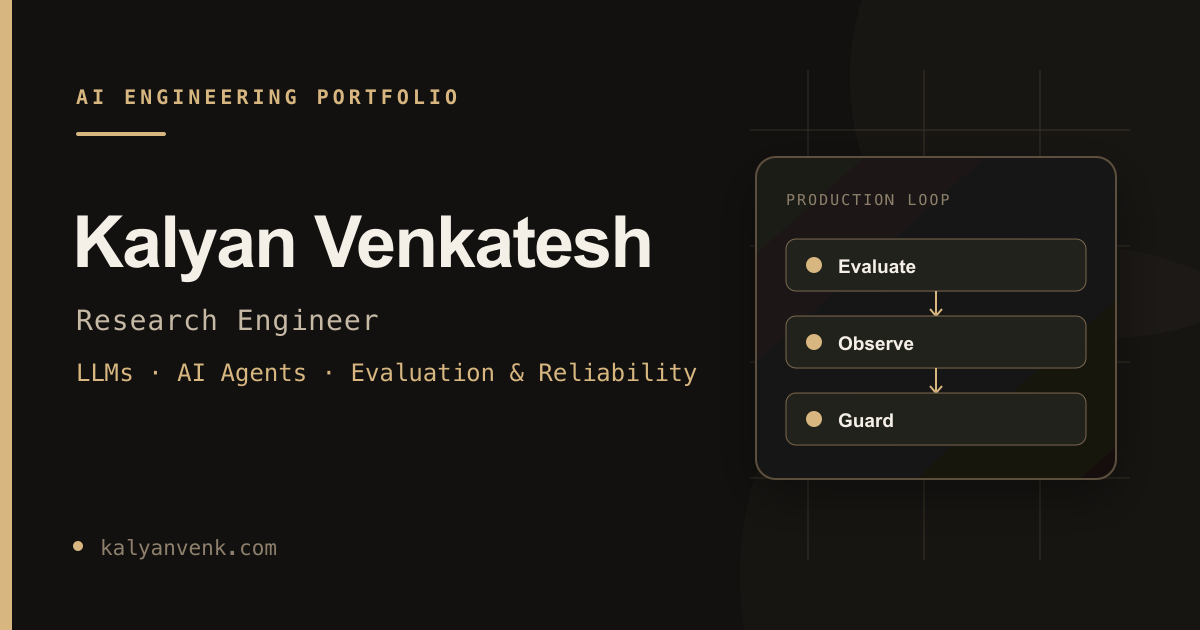
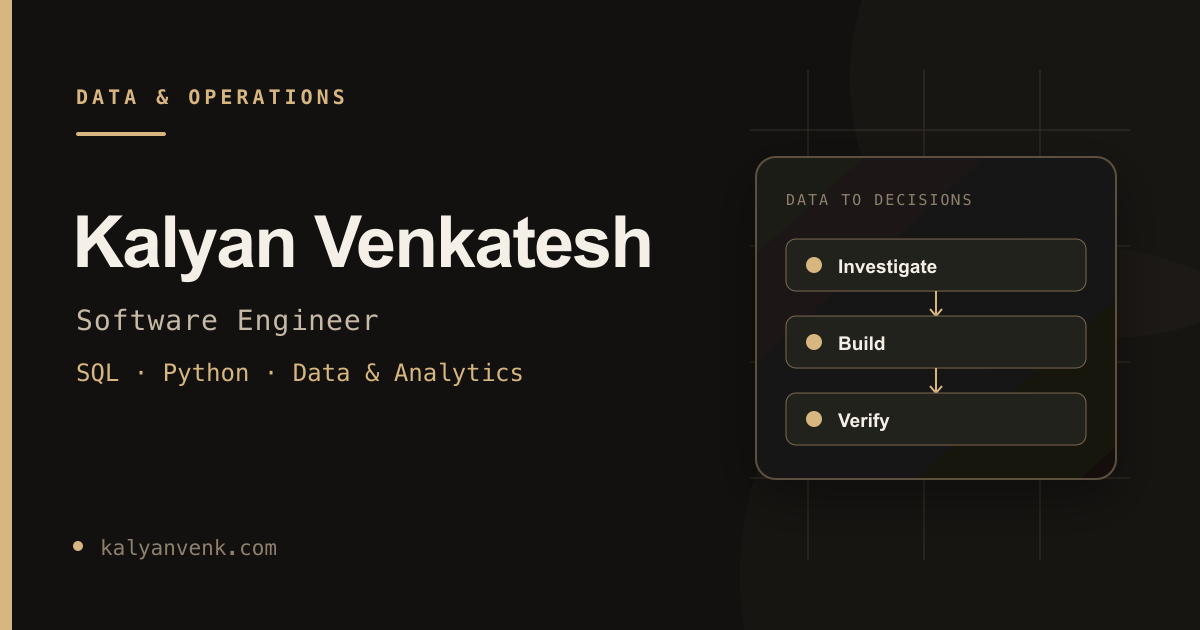
Refocus portfolio on data and analytical operations

diff --git a/index.html b/index.html
@@ -6,25 +6,25 @@
 <meta name="viewport" content="width=device-width, initial-scale=1.0">
 <title>Kalyan Venkatesh</title>
 <link rel="icon" type="image/svg+xml" href="/assets/favicon.svg?v=1">
-<meta name="description" content="AI Engineer focused on evaluation, LLM agents and reliable production systems.">
-<meta property="og:title" content="Kalyan Venkatesh | Research Engineer">
-<meta property="og:description" content="AI Engineer focused on evaluation, LLM agents and reliable production systems.">
+<meta name="description" content="Software Engineer working with SQL, Python, data pipelines, analytics and customer-focused operations.">
+<meta property="og:title" content="Kalyan Venkatesh | Software Engineer">
+<meta property="og:description" content="Software Engineer working with SQL, Python, data pipelines, analytics and customer-focused operations.">
 <meta property="og:type" content="website">
 <meta property="og:url" content="https://kalyanvenk.com/">
 <meta property="og:site_name" content="Kalyan Venkatesh">
-<meta property="og:image" content="https://kalyanvenk.com/assets/og-portfolio.png">
+<meta property="og:image" content="https://kalyanvenk.com/assets/og-portfolio.png?v=20261114">
 <meta property="og:image:width" content="1200">
 <meta property="og:image:height" content="630">
-<meta property="og:image:alt" content="Kalyan Venkatesh AI Engineering Portfolio">
+<meta property="og:image:alt" content="Kalyan Venkatesh | Data and Operations">
 <meta name="twitter:card" content="summary_large_image">
-<meta name="twitter:title" content="Kalyan Venkatesh | Research Engineer">
-<meta name="twitter:description" content="AI Engineer focused on evaluation, LLM agents and reliable production systems.">
-<meta name="twitter:image" content="https://kalyanvenk.com/assets/og-portfolio.png">
-<meta name="twitter:image:alt" content="Kalyan Venkatesh AI Engineering Portfolio">
+<meta name="twitter:title" content="Kalyan Venkatesh | Software Engineer">
+<meta name="twitter:description" content="Software Engineer working with SQL, Python, data pipelines, analytics and customer-focused operations.">
+<meta name="twitter:image" content="https://kalyanvenk.com/assets/og-portfolio.png?v=20261114">
+<meta name="twitter:image:alt" content="Kalyan Venkatesh | Data and Operations">
 <link rel="preconnect" href="https://fonts.googleapis.com">
 <link rel="preconnect" href="https://fonts.gstatic.com" crossorigin>
 <link href="https://fonts.googleapis.com/css2?family=Inter:wght@400;500;600;700;800&family=JetBrains+Mono:wght@400;500;600&display=swap" rel="stylesheet">
-<link rel="stylesheet" href="assets/home.css?v=12">
+<link rel="stylesheet" href="assets/home.css?v=13">
 <link rel="stylesheet" href="/assets/theme.css?v=2">
 </head>
 <body>
@@ -33,11 +33,12 @@
   <header class="rail">
     <div>
       <h1><a href="/">Kalyan Venkatesh</a></h1>
-      <h2><span>Software Engineer</span><span>LLMs &middot; Agents &middot; Evaluation &middot; Observability</span></h2>
+      <h2><span>Software Engineer</span><span>SQL &amp; Python &middot; Data &amp; Operations</span></h2>
       <nav class="nav">
         <a href="#about" data-sec="about"><span class="ind"></span>About</a>
         <a href="#experience" data-sec="experience"><span class="ind"></span>Experience</a>
         <a href="#projects" data-sec="projects"><span class="ind"></span>Projects</a>
+        <a href="#skills" data-sec="skills"><span class="ind"></span>Skills</a>
       </nav>
     </div>
     <div class="rail-foot">
@@ -54,10 +55,9 @@
     <section class="sec" id="about">
       <h2 class="sec-h">About</h2>
       <div class="prose">
-        <p class="reveal">Hey! I'm a Software Engineer with 2 years of work experience. I specialize in making AI systems reliable in production.</p>
-        <p class="reveal">At sensen.ai I worked as a Software Engineer and served as the company's sole Data Scientist. I built a production model-evaluation framework across 26 parking deployments and worked with on-site teams and clients across 4 countries to turn operational failures into measurable engineering problems.</p>
-        <p class="reveal">My Master's Research carried the same question into LLM systems. I built a multi-agent Planner-Critic-Fixer pipeline to detect and repair generated-code errors at inference time. My research paper is under conference review.</p>
-        <p class="reveal">Lately I'm building an end-to-end system with AI agents for credit card fraud disputes, focusing on LLM evaluation, observability &amp; guardrails.</p>
+        <p class="reveal">Hey! I'm Kalyan, a Software Engineer with 2 years at sensen.ai, where I worked as the company's sole Data Scientist. Most of my work involved SQL, production data and problems reported by on-site stakeholders.</p>
+        <p class="reveal">I enjoy understanding what is going wrong, investigating the data and building a solution that makes someone's work easier. At sensen.ai, that meant shared SQL across 80+ client deployments, automated reporting and an evaluation framework adopted across 26 parking deployments.</p>
+        <p class="reveal">I'm now building <a href="/product-compass/">Product Compass</a>, a data pipeline and analytics project for investigating reported problems in AI developer tools. I'm interested in data engineering, analytics and analytical operations roles, with a strong preference for the New York City and San Francisco Bay areas.</p>
       </div>
     </section>
 
@@ -78,8 +78,14 @@
             <h4>Software Engineer</h4>
             <p>Jan 2023 to Aug 2024</p>
           </div>
-          <p>Sole Data Scientist and forward-deployed technical contact across sensen's client base. Built an ANPR vehicle-direction classifier, a production model-evaluation framework and analytical SQL serving 80 client deployments. Gathered requirements, scoped feasibility and self-deployed 300+ data products on AWS, Azure and GCP servers.</p>
-          <ul class="tags"><li>Python</li><li>Computer Vision</li><li>ETL</li><li>AWS</li></ul>
+          <p>Worked with on-site stakeholders across 4 countries to investigate customer problems and deliver production data solutions.</p>
+          <ul class="experience-points">
+            <li>Maintained shared SQL logic across 80+ client deployments, using approximately 25 reusable materialized views and PostgreSQL functions to turn about 30,000 weekly vehicle observations into reporting datasets.</li>
+            <li>Built and deployed 300+ automated reporting pipelines with client-specific filters and PDF, HTML, Excel and CSV outputs. Owned requirements, testing, deployment and verification on client servers.</li>
+            <li>Developed a model evaluation framework adopted across 26 parking deployments. Connected missing entry or exit records to unbillable sessions, helping reduce unbillable events by approximately 5% and protect about $6,000 monthly per site.</li>
+            <li>Deployed solutions on AWS, Azure and GCP servers and mentored 2 data-science interns delivering SQL-based work.</li>
+          </ul>
+          <ul class="tags"><li>SQL</li><li>Python</li><li>PostgreSQL</li><li>ETL</li><li>Data Quality</li><li>Client Delivery</li></ul>
         </article>
 
         <article class="home-role">
@@ -87,7 +93,7 @@
             <h4>Software Engineer Intern</h4>
             <p>Aug 2022 to Jan 2023</p>
           </div>
-          <p>Built 8 ticket-generation APIs on PL/pgSQL functions behind Spring Boot and designed an image-retention policy in Python that reclaimed 400+ GB and deferred server upgrades 4 to 5 months.</p>
+          <p>Built 8 ticket-generation APIs backed by PostgreSQL functions. Automated an image-retention workflow in Python that preserved readable evidence images, reclaimed 400+ GB in its initial cleanup and deferred server upgrades by 4 to 5 months.</p>
           <ul class="tags"><li>Python</li><li>SQL</li><li>Linux</li></ul>
         </article>
       </div>
@@ -96,23 +102,44 @@
     <section class="sec" id="projects">
       <h2 class="sec-h">Projects</h2>
 
-      <a class="home-project reveal" href="/chargeback/">
+      <a class="home-project reveal" href="/product-compass/">
         <div class="home-project-head">
-          <h3>ChargeBack <span aria-hidden="true">&#8599;</span></h3>
+          <h3>Product Compass <span aria-hidden="true">&#8599;</span></h3>
           <span>In progress</span>
         </div>
-        <p>AI agent for card-fraud disputes built around evaluation, observability and guardrails. The system connects streamed conversations to transaction lookup, fraud scoring and guarded dispute filing.</p>
-        <ul class="tags"><li>FastAPI</li><li>PostgreSQL</li><li>PyTorch</li><li>Evaluation</li></ul>
+        <p class="project-subtitle">Data Pipelines and Analytics for AI Developer Tools</p>
+        <p>Collects public issue reports, validates and loads them into PostgreSQL, then summarizes the evidence for operational investigation. The first dataset contains 1,159 unique Codex reports.</p>
+        <ul class="tags"><li>Python</li><li>SQL</li><li>PostgreSQL</li><li>Data Validation</li><li>Operational Analysis</li></ul>
       </a>
 
       <a class="home-project reveal" href="/inference-reliability">
         <div class="home-project-head">
-          <h3>Multi-Agent LLM Systems &amp; Reliability <span aria-hidden="true">&#8599;</span></h3>
+          <h3>Experimental Design &amp; LLM Evaluation <span aria-hidden="true">&#8599;</span></h3>
           <span>Under review</span>
         </div>
-        <p>Graduate research on whether a Planner-Critic-Fixer monitor improves generated-code correctness across local language models without retraining them.</p>
-        <ul class="tags"><li>LangGraph</li><li>LLM Evaluation</li><li>MLflow</li><li>AST Analysis</li></ul>
+        <p>Graduate research using 17,000 model-evaluation records across 10 experimental phases to measure when automated feedback improves or harms generated-code performance.</p>
+        <ul class="tags"><li>Python</li><li>Statistical Analysis</li><li>Experimental Design</li><li>MLflow</li></ul>
       </a>
+    </section>
+
+    <section class="sec" id="skills">
+      <h2 class="sec-h">Skills</h2>
+      <div class="skill-group reveal">
+        <h3>Languages &amp; Databases</h3>
+        <ul class="tags"><li>Python</li><li>SQL</li><li>PostgreSQL</li></ul>
+      </div>
+      <div class="skill-group reveal">
+        <h3>Data Engineering &amp; Analytics</h3>
+        <ul class="tags"><li>Data Modeling</li><li>ETL</li><li>Data Pipelines</li><li>dbt</li><li>Snowflake</li><li>Pandas</li><li>NumPy</li></ul>
+      </div>
+      <div class="skill-group reveal">
+        <h3>Quality &amp; Measurement</h3>
+        <ul class="tags"><li>Data Validation</li><li>Data Quality</li><li>Statistical Analysis</li><li>Experimental Design</li><li>Model Evaluation</li></ul>
+      </div>
+      <div class="skill-group reveal">
+        <h3>Operations &amp; Delivery</h3>
+        <ul class="tags"><li>Requirements Gathering</li><li>Report Automation</li><li>Workflow Automation</li><li>Stakeholder Collaboration</li><li>Git</li><li>AWS</li></ul>
+      </div>
     </section>
 
     <footer class="foot reveal">

diff --git a/inference-reliability.html b/inference-reliability.html
@@ -4,44 +4,34 @@
 <meta charset="UTF-8">
 <meta name="viewport" content="width=device-width, initial-scale=1.0">
 <link rel="canonical" href="https://kalyanvenk.com/inference-reliability">
-<meta name="description" content="Graduate research on inference-time monitoring and repair in multi-agent LLM systems using a Planner-Critic-Fixer reliability pipeline.">
+<meta name="description" content="Graduate research in experimental design, statistical analysis and evaluation of language-model code generation.">
 <title>Graduate Research · Kalyan Venkatesh</title>
-<meta property="og:title" content="Graduate Research: Multi-Agent LLM Systems &amp; Reliability">
-<meta property="og:description" content="Graduate research on inference-time monitoring and repair in multi-agent LLM systems using a Planner-Critic-Fixer reliability pipeline.">
+<meta property="og:title" content="Graduate Research: Experimental Design &amp; LLM Evaluation">
+<meta property="og:description" content="Graduate research in experimental design, statistical analysis and evaluation of language-model code generation.">
 <meta property="og:type" content="article">
 <meta property="og:url" content="https://kalyanvenk.com/inference-reliability">
 <meta property="og:site_name" content="Kalyan Venkatesh">
-<meta property="og:image" content="https://kalyanvenk.com/assets/og-research.png">
+<meta property="og:image" content="https://kalyanvenk.com/assets/og-research.png?v=20261114">
 <meta property="og:image:width" content="1200">
 <meta property="og:image:height" content="630">
-<meta property="og:image:alt" content="Multi-Agent LLM Systems and Reliability research pipeline">
+<meta property="og:image:alt" content="Experimental design and statistical evaluation of language models">
 <meta name="twitter:card" content="summary_large_image">
-<meta name="twitter:title" content="Graduate Research: Multi-Agent LLM Systems &amp; Reliability">
-<meta name="twitter:description" content="Graduate research on inference-time monitoring and repair in multi-agent LLM systems using a Planner-Critic-Fixer reliability pipeline.">
-<meta name="twitter:image" content="https://kalyanvenk.com/assets/og-research.png">
-<meta name="twitter:image:alt" content="Multi-Agent LLM Systems and Reliability research pipeline">
-<style>
-  :root { color-scheme: light dark; }
-  body { margin: 0; font-family: Inter, -apple-system, BlinkMacSystemFont, "Segoe UI", sans-serif; background: #10121a; color: #f4f5fb; }
-  main { box-sizing: border-box; max-width: 760px; min-height: 100vh; margin: 0 auto; padding: 10vh 28px; display: grid; align-content: center; gap: 22px; }
-  .eyebrow { margin: 0; color: #a5b4fc; font: 600 0.78rem/1.4 ui-monospace, SFMono-Regular, Menlo, monospace; letter-spacing: 0.12em; text-transform: uppercase; }
-  h1 { margin: 0; font-size: clamp(2rem, 6vw, 3.5rem); letter-spacing: -0.045em; line-height: 1.04; }
-  p { max-width: 62ch; margin: 0; color: #c4c8d8; font-size: 1.05rem; line-height: 1.7; }
-  .status { padding: 20px 22px; border: 1px solid #31364b; border-radius: 14px; background: #181b27; }
-  .findings { display: grid; gap: 14px; margin: 0; padding: 0; list-style: none; }
-  .findings li { padding-left: 18px; border-left: 2px solid #6676d9; color: #d8dbea; font-size: 1rem; line-height: 1.65; }
-  .status p + p { margin-top: 10px; }
-  a { color: #b9c3ff; font-weight: 600; text-underline-offset: 3px; }
-</style>
+<meta name="twitter:title" content="Graduate Research: Experimental Design &amp; LLM Evaluation">
+<meta name="twitter:description" content="Graduate research in experimental design, statistical analysis and evaluation of language-model code generation.">
+<meta name="twitter:image" content="https://kalyanvenk.com/assets/og-research.png?v=20261114">
+<meta name="twitter:image:alt" content="Experimental design and statistical evaluation of language models">
+<link rel="stylesheet" href="/assets/project-page.css?v=1">
 <link rel="stylesheet" href="/assets/theme.css?v=2">
 </head>
-<body class="research-page">
+<body class="project-page">
   <main>
     <p class="eyebrow">Graduate Research</p>
-    <h1>Multi-Agent LLM Systems &amp; Reliability</h1>
+    <h1>Experimental Design &amp; LLM Evaluation</h1>
+    <p>Studying when automated feedback improves generated code, when it makes results worse and how to tell the difference with reliable measurements.</p>
     <ul class="findings">
-      <li>Built and evaluated a LangGraph Planner-Critic-Fixer pipeline with AST checks, selective reversion and MLflow tracking across 5 local 3B to 8B model families, 10 experimental phases and 3 code benchmarks.</li>
-      <li>Measured a +1.37-point average pass@1 gain across 9 conditions on a 3B planner but found monitoring reduced Qwen2.5 Coder 7B from 90% to 86% pass@1, showing it can harm stronger models.</li>
+      <li>Designed 10 experimental phases to compare baseline and monitored model performance across model capabilities, settings and code benchmarks.</li>
+      <li>Analyzed 17,000 model-evaluation records using paired comparisons and 95% confidence intervals to quantify changes in generated-code performance.</li>
+      <li>Built a Python evaluation workflow with LangGraph and MLflow, combining code checks, experiment tracking and failure analysis. Tested 5 local model families across 3 code benchmarks.</li>
     </ul>
     <div class="status">
       <p>My first-author Master's research manuscript with 2 DePaul faculty co-authors is under conference review.</p>

diff --git a/product-compass/index.html b/product-compass/index.html
@@ -1,0 +1,76 @@
+<!DOCTYPE html>
+<html lang="en">
+<head>
+<meta charset="UTF-8">
+<meta name="viewport" content="width=device-width, initial-scale=1.0">
+<title>Product Compass · Kalyan Venkatesh</title>
+<link rel="canonical" href="https://kalyanvenk.com/product-compass/">
+<meta name="description" content="Data Pipelines and Analytics for AI Developer Tools. Python ingestion, PostgreSQL modeling and source-verified analysis of public product issues.">
+<meta property="og:title" content="Product Compass | Data Pipelines and Analytics for AI Developer Tools">
+<meta property="og:description" content="From public issue reports to reliable datasets and operational investigation. Built with Python, SQL and PostgreSQL.">
+<meta property="og:type" content="website">
+<meta property="og:url" content="https://kalyanvenk.com/product-compass/">
+<meta property="og:site_name" content="Kalyan Venkatesh">
+<meta property="og:image" content="https://kalyanvenk.com/assets/og-product-compass.png">
+<meta property="og:image:width" content="1200">
+<meta property="og:image:height" content="630">
+<meta property="og:image:alt" content="Product Compass: collect, validate and analyze public product issue data">
+<meta name="twitter:card" content="summary_large_image">
+<meta name="twitter:title" content="Product Compass | Data Pipelines and Analytics for AI Developer Tools">
+<meta name="twitter:description" content="Python ingestion, PostgreSQL modeling and source-verified analysis of public product issues.">
+<meta name="twitter:image" content="https://kalyanvenk.com/assets/og-product-compass.png">
+<link rel="icon" type="image/svg+xml" href="/assets/favicon.svg?v=1">
+<link rel="stylesheet" href="/assets/theme.css?v=2">
+<link rel="stylesheet" href="/assets/project-page.css?v=1">
+</head>
+<body class="project-page">
+<main>
+  <p><a href="/">&#8592; Kalyan Venkatesh</a></p>
+  <p class="eyebrow">Independent project · Python / SQL / PostgreSQL</p>
+  <h1>Product Compass</h1>
+  <p class="subtitle">Data Pipelines and Analytics for AI Developer Tools</p>
+  <p>Public issue reports contain useful clues about where a product gets in the way of its users. Product Compass turns those reports into a reliable dataset for investigating the problems behind them, starting with OpenAI Codex.</p>
+
+  <dl class="stats" aria-label="First verified dataset">
+    <div><dt>Unique issue reports</dt><dd>1,159</dd></div>
+    <div><dt>Days of reported issues</dt><dd>7</dd></div>
+    <div><dt>Fields checked per record</dt><dd>14</dd></div>
+  </dl>
+
+  <section aria-labelledby="implementation">
+    <h2 id="implementation">What the pipeline does</h2>
+    <ul class="findings">
+      <li>Collects GitHub issues through a Python workflow with date filters, pagination and request pacing. Saves the source records with collection metadata so the analysis can be traced back to its inputs.</li>
+      <li>Loads records into PostgreSQL and refreshes existing issue IDs without duplicates. Preserves source links, timestamps and labels, with all 14 mapped fields reconciled against the saved JSON.</li>
+      <li>Summarizes issues by creation date, state and label to support operational investigation. Keeps overlapping labels separate from counts of distinct reports or affected users.</li>
+    </ul>
+  </section>
+
+  <ol class="flow" aria-label="Pipeline stages">
+    <li>1. GitHub API</li><li>2. JSON snapshot</li><li>3. PostgreSQL</li><li>4. SQL analysis</li>
+  </ol>
+
+  <div class="perspectives">
+    <section>
+      <h2>The data question</h2>
+      <p>Did we collect the records we intended to collect, preserve their meaning and load them correctly? The pipeline checks completeness signals, keeps unique issue IDs and reconciles database values with the source snapshot.</p>
+    </section>
+    <section>
+      <h2>The operations question</h2>
+      <p>Which reported problem deserves investigation next? Report frequency is one signal alongside severity, ongoing exposure and available workarounds. The descriptions provide context that a label count alone cannot.</p>
+    </section>
+  </div>
+
+  <div class="status">
+    <h2>First verified snapshot</h2>
+    <p>Collected November 14, 2026 for issues created November 1–7 in UTC. The dataset contains 1,052 open and 107 closed issues, with no pull requests.</p>
+    <p>These are public reports, not the complete customer-support queue. Labels overlap and a closed issue does not necessarily mean a fixed problem. Upserts retain current values rather than a history of changes.</p>
+  </div>
+
+  <div class="actions">
+    <a class="primary-link" href="https://github.com/kalyan-venk/product-compass" target="_blank" rel="noopener">View source and setup instructions &#8599;</a>
+    <a href="/#projects">Back to projects</a>
+  </div>
+</main>
+</body>
+</html>

diff --git a/assets/project-page.css b/assets/project-page.css
@@ -1,0 +1,45 @@
+/* Shared presentation for project case studies. */
+* { box-sizing: border-box; }
+.project-page {
+  margin: 0;
+  background: var(--theme-bg, #edf7f3);
+  color: var(--theme-head, #142e25);
+  font-family: Inter, -apple-system, BlinkMacSystemFont, "Segoe UI", sans-serif;
+}
+.project-page main {
+  max-width: 860px;
+  min-height: 100vh;
+  margin: 0 auto;
+  padding: 64px 28px;
+  display: grid;
+  align-content: start;
+  gap: 24px;
+}
+.project-page .eyebrow { margin: 0; color: var(--theme-accent); font: 600 .76rem/1.5 ui-monospace, monospace; letter-spacing: .12em; text-transform: uppercase; }
+.project-page h1 { margin: 0; font-size: clamp(2.2rem, 6vw, 3.8rem); letter-spacing: -.045em; line-height: 1.08; }
+.project-page h2 { margin: 0 0 12px; font-size: 1.12rem; line-height: 1.45; }
+.project-page p { margin: 0; color: var(--theme-text); font-size: 1rem; line-height: 1.75; }
+.project-page a { color: var(--theme-accent); font-weight: 600; text-underline-offset: 4px; }
+.project-page .subtitle { font-size: 1.2rem; color: var(--theme-head); }
+.project-page .findings { display: grid; gap: 18px; margin: 0; padding: 0; list-style: none; }
+.project-page .findings li { padding-left: 18px; border-left: 2px solid var(--theme-accent); color: var(--theme-text); font-size: 1rem; line-height: 1.75; }
+.project-page .status { padding: 22px; border: 1px solid var(--theme-line); border-radius: 14px; background: var(--theme-panel); }
+.project-page .status p + p { margin-top: 12px; }
+.project-page .stats { display: grid; grid-template-columns: repeat(3, 1fr); gap: 12px; }
+.project-page .stats div { padding: 20px; border: 1px solid var(--theme-line); border-radius: 12px; }
+.project-page .stats dt { color: var(--theme-dim); font-size: .83rem; }
+.project-page .stats dd { margin: 8px 0 0; color: var(--theme-head); font-size: 2rem; font-weight: 700; }
+.project-page .flow { display: flex; flex-wrap: wrap; gap: 10px; margin: 0; padding: 0; list-style: none; }
+.project-page .flow li { padding: 10px 14px; background: var(--theme-panel); border: 1px solid var(--theme-line); border-radius: 8px; font: .84rem/1.5 ui-monospace, monospace; }
+.project-page .perspectives { display: grid; grid-template-columns: 1fr 1fr; gap: 24px; }
+.project-page .perspectives section { border-top: 1px solid var(--theme-line); padding-top: 20px; }
+.project-page .actions { display: flex; flex-wrap: wrap; align-items: center; gap: 20px; }
+.project-page .primary-link { padding: 12px 18px; border: 1px solid var(--theme-accent); border-radius: 8px; text-decoration: none; }
+.project-page .primary-link:hover { background: var(--theme-panel); }
+@media (max-width: 560px) {
+  .project-page main { padding: 36px 20px; gap: 22px; }
+  .project-page .stats { grid-template-columns: 1fr; }
+  .project-page .stats div { display: flex; justify-content: space-between; align-items: center; gap: 16px; padding: 14px 18px; }
+  .project-page .stats dd { margin: 0; }
+  .project-page .perspectives { grid-template-columns: 1fr; }
+}

diff --git a/assets/home.css b/assets/home.css
@@ -131,3 +131,12 @@ a { color: var(--head); text-decoration: none; }
 @keyframes riseIn { from { opacity: 0; transform: translateY(12px); } to { opacity: 1; transform: none; } }
 .reveal { animation: riseIn 0.55s ease both; }
 @media (prefers-reduced-motion: reduce) { .reveal { animation: none; } html { scroll-behavior: auto; } }
+
+/* Data and operations profile content. */
+.experience-points { margin: 14px 0 0; padding-left: 18px; font-size: .95rem; }
+.experience-points li + li { margin-top: 12px; }
+.skill-group { padding: 18px 0; border-bottom: 1px solid var(--line); }
+.skill-group:first-of-type { padding-top: 0; }
+.skill-group h3 { margin: 0; color: var(--head); font-size: .95rem; font-weight: 600; }
+.skill-group .tags { margin-bottom: 0; }
+.home-project .project-subtitle { color: var(--head); font-weight: 500; }
